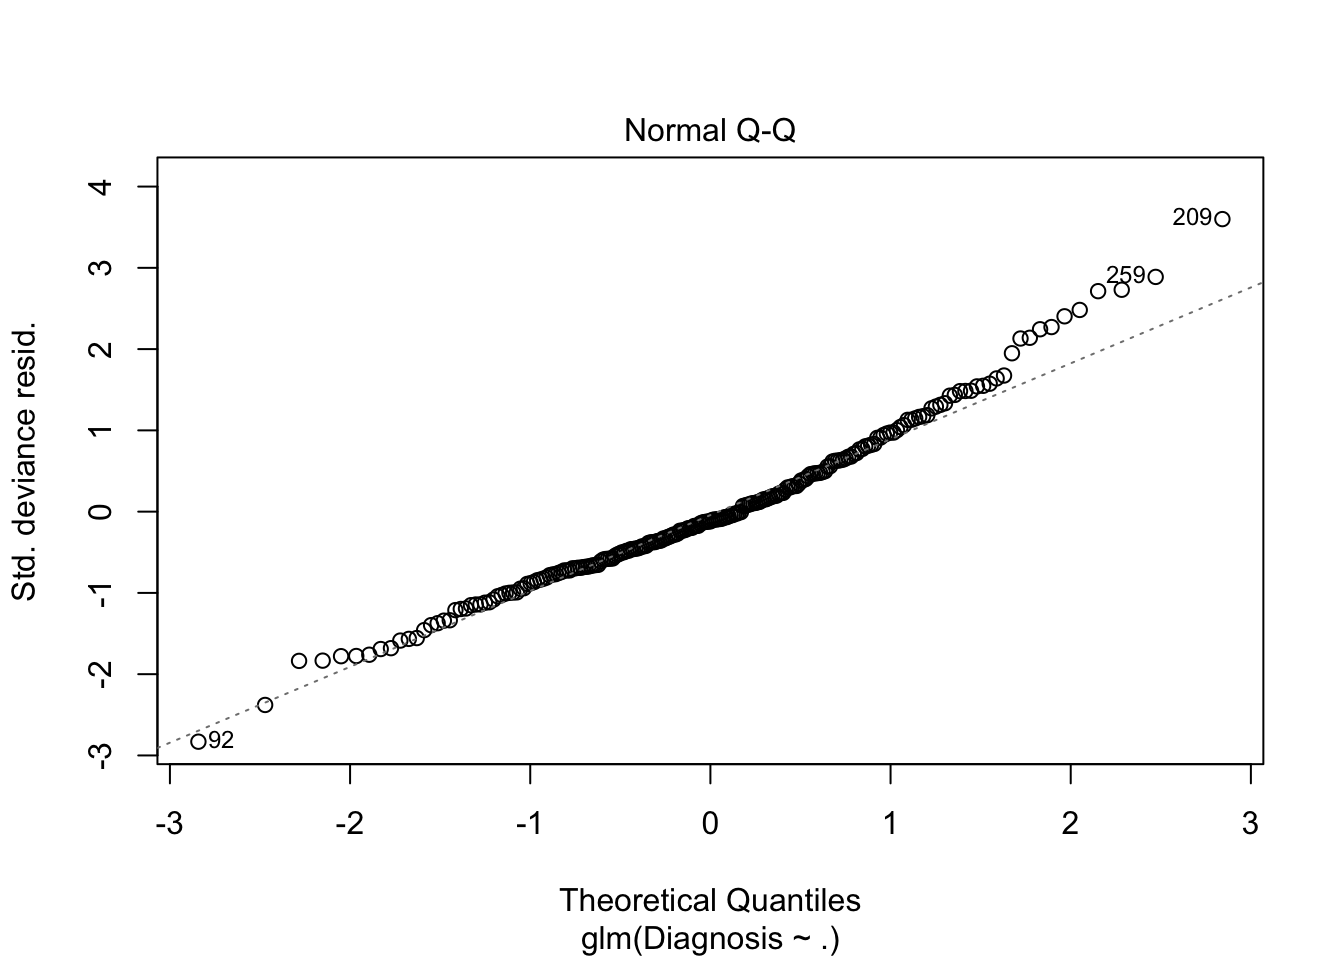
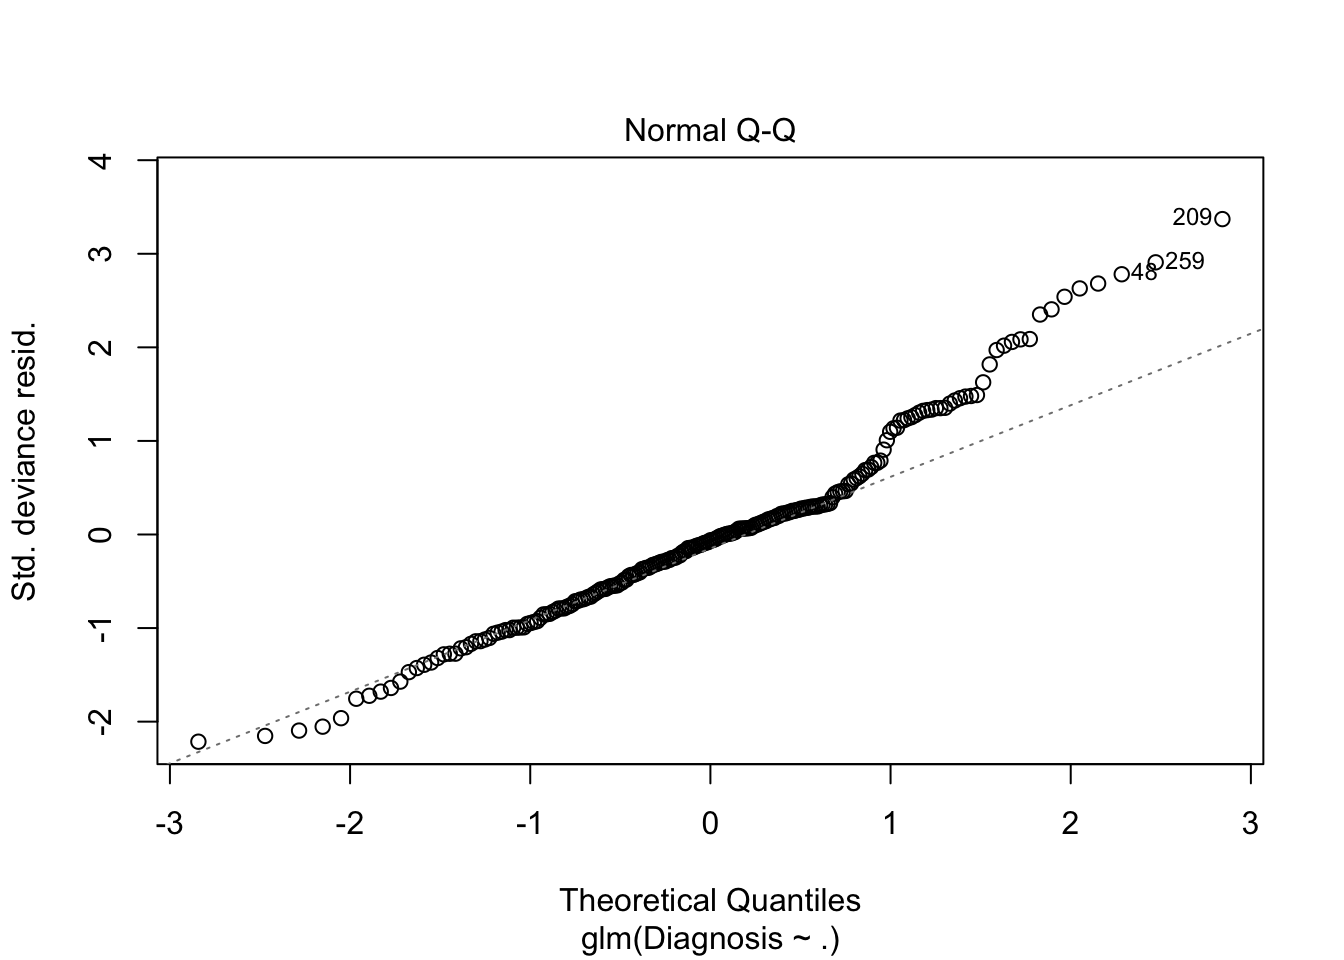
more

diff --git a/content/post/Analysis_heart_conditions.html b/content/post/Analysis_heart_conditions.html
@@ -2,25 +2,25 @@
 title: Why Data Scientists aren't Doctors!
 author: ~
 date: '2017-07-17'
-slug: second-new-post-in-r-markdown
+slug: analysis-of-heart-disease
 categories: []
 tags: []
 ---
 
 
 
-<div id="intro" class="section level1">
-<h1>Intro</h1>
-<p>Technology is advancing at an unbelievable rate, and one of the most exciting, not to mention important, fields that is benefitting from this is the field of Medicine. From CAT scans to cancer cures, science and technology is making the impossible possible with treatments and procedures so advanced and effective, they almost border on the mythical. There are however some drawbacks. One of the most common ones that is joked around the proverbial water-cooler is self diagnosis using technology. In this day and age, if you tell someone that you’ve got a sore throat and feel a little under the weather, you’ll most likely be told “Don’t Google your symptoms, it’ll probably say you’re pregnant!”</p>
-<p>As a prospective data scientist, I find this situation worrying, if not highly offensive… How is it possible that we aren’t able to accurately diagnose ourselves using the same advanced techniques that can effectively model the stock market, crime rates and pokemon cards?! And so, when the opportunity arose to find a data set, build a functional model and then use it to analyse said data set came up, I took it with both hands.</p>
-<p>Full disclosure… I have included the entire code (except for the part about the packages needed), so if you are a BA major, you may want to look away now; if not, you should find it helpful should you want to do something similar.</p>
-</div>
-<div id="code-models-and-some-explanation" class="section level1">
-<h1>Code, models and some explanation</h1>
+<p>Technology is advancing at an unbelievable rate, and one of the most exciting, not to mention important, fields that is benefitting from this is the field of Medicine. From CAT scans to cancer cures, science and technology is making the impossible possible with treatments and procedures so advanced and effective, they almost border on the mythical. There are however some drawbacks. One of the most common ones that is joked around the proverbial water-cooler is self diagnosis using technology. In this day and age, if you tell someone that you’ve got a sore throat and feel a little under the weather, you’ll most likely be told “Don’t Google your symptoms, it’ll probably say you’re pregnant!”<br />
+.</p>
+<p>As a prospective data scientist, I find this situation worrying, if not highly offensive… How is it possible that we aren’t able to accurately diagnose ourselves using the same advanced techniques that can effectively model the stock market, crime rates and pokemon cards?! And so, when the opportunity arose to find a data set, build a functional model and then use it to analyse said data set came up, I took it with both hands.<br />
+.</p>
+<p>Full disclosure… I have included the entire code (except for the part about the packages needed), so if you are a BA major, you may want to look away now; if not, you should find it helpful should you want to do something similar.<br />
+.</p>
 <p>The first thing I had to do was to find some usable data. I settled on a set of just over 300 diagnoses of heart conditions, along with 13 possible factors sucg as age, max heart rate achieved under exercise and an ecg reading. These were factors that I expected to be highly correlated with heart conditions, and so expected a good model. If you are curious, you can find the data <a href="https://archive.ics.uci.edu/ml/machine-learning-databases/heart-disease/processed.cleveland.data">here</a>. The data is all numeric, so the heart diseases are ranked on a scale from 0 to 4, where 0 is completely healthy and 4 is an impending heart-attack.</p>
+<p>.</p>
 <p>If you check out that link, you will see that it just leads to a bunch of numbers on a screen. I therefore had to scrape the website and then format the data (a decent amount of work given my relative inexperience in the field), which was done with the code below. Of course, before doing even that, we have to import the necessary libraries, which are</p>
-<p>library(rvest) library(stringr) library(dplyr) library(rpart) library(caret) library(vcdExtra) library(ipred) library(neuralnet) library(magrittr)</p>
-<pre class="r"><code>#------------------------------Getting and processing our data----------------------------------------------
+<p>.</p>
+<p>library(rvest) library(stringr) library(dplyr) library(rpart) library(caret) library(vcdExtra) library(ipred) library(neuralnet) library(magrittr) .</p>
+<pre class="r"><code>#-----------------------------Getting and processing our data----------------------------------------------
 # Scrapes the data
 raw_data &lt;- read_html(&quot;https://archive.ics.uci.edu/ml/machine-learning-databases/heart-disease/processed.cleveland.data&quot;) %&gt;%  #reads the the data from this page
   html_nodes(&quot;body&quot;) %&gt;%     
@@ -75,10 +75,15 @@ head(data)</code></pre>
 ## 4               0.0  3.0        0 
 ## 5               0.0  3.0        0 
 ## 6               0.0  3.0        0</code></pre>
+<p>.</p>
 <p>As you can see, the data comes out nicely in a data frame. Note that I have taken away all cells that contained “?” (there were a couple) as these would have messed up my models later.</p>
+<p>.</p>
 <p>The first thing I decided to was to model it using a decision tree, as this is a fairly simple model, but one that deals well with a large number of factors. To do this, we make use of the Caret package. This not only makes implementation easy, but also bootstraps the data 25 times and gives us a very nice output off results.</p>
+<p>.</p>
 <p>In order to implement the model, we first divide our data in testing and training parts. I have opted for a 75/25 split, but it doesn’t really matter as long as you have a split and the training set is in the significant majority. We do this so that we can realistically test our model. If you don’t see why this is necessary, think of it like this… imagine trying to teach a child basic maths. You want to teach him addition, so you tell him 2 + 2 = 4, 2 + 3 = 5 and so on. If you then go back and test him by asking him 2 +2, he should (hopefully) say the answer is 4. However, you can’t be sure if he has learnt addition, or if he just knows that 2 + 2 = 4. In order to test him, you ask a sum he hasn’t seen before, like 2 + 4. If he answers 6, you’re doing a good job… anything else, and not so much.</p>
-<p>Back to the code. We then train our model with Diagnosis as a finction of everything (thats what ~ . means) and instruct it to use the rpart method, which is a decision tree. The next two lines just show us the details and decision tree for the model.</p>
+<p>.</p>
+<p>Back to the code. We then train our model with Diagnosis as a function of everything (thats what ~ . means) and instruct it to use the rpart method, which is a decision tree. The next two lines just show us the details and decision tree for the model.</p>
+<p>.</p>
 <pre class="r"><code>#----------------------------------Training our model---------------------------------------------------
 
 # Splitting the data into training and testing sets
@@ -104,12 +109,12 @@ data.rpart</code></pre>
 ## Resampling results across tuning parameters:
 ## 
 ##   cp          Accuracy   Kappa    
-##   0.01904762  0.5502062  0.2735190
-##   0.03809524  0.5580310  0.2738411
-##   0.06666667  0.5521312  0.2176496
+##   0.02912621  0.5410244  0.2403078
+##   0.03398058  0.5367336  0.2217788
+##   0.04854369  0.5349352  0.2182208
 ## 
 ## Accuracy was used to select the optimal model using  the largest value.
-## The final value used for the model was cp = 0.03809524.</code></pre>
+## The final value used for the model was cp = 0.02912621.</code></pre>
 <pre class="r"><code># We can look at the decision tree here
 data.rpart$finalModel</code></pre>
 <pre><code>## n= 223 
@@ -117,55 +122,64 @@ data.rpart$finalModel</code></pre>
 ## node), split, n, loss, yval, (yprob)
 ##       * denotes terminal node
 ## 
-## 1) root 223 105 0  (0.53 0.18 0.12 0.12 0.054)  
-##   2) Thal3.0&gt;=0.5 123  27 0  (0.78 0.14 0.041 0.033 0.0081) *
-##   3) Thal3.0&lt; 0.5 100  77 1  (0.22 0.23 0.22 0.22 0.11)  
-##     6) Chest_Pain4.0&lt; 0.5 32  16 0  (0.5 0.22 0.16 0.062 0.062) *
-##     7) Chest_Pain4.0&gt;=0.5 68  48 3  (0.088 0.24 0.25 0.29 0.13) *</code></pre>
+##  1) root 223 103 0  (0.54 0.2 0.11 0.12 0.04)  
+##    2) Thal3.0&gt;=0.5 121  27 0  (0.78 0.15 0.033 0.033 0.0083) *
+##    3) Thal3.0&lt; 0.5 102  76 0  (0.25 0.25 0.2 0.22 0.078)  
+##      6) Chest_Pain4.0&lt; 0.5 35  17 0  (0.51 0.23 0.086 0.11 0.057) *
+##      7) Chest_Pain4.0&gt;=0.5 67  49 1  (0.12 0.27 0.25 0.27 0.09)  
+##       14) eia1.0&gt;=0.5 44  29 3  (0.068 0.32 0.25 0.34 0.023) *
+##       15) eia1.0&lt; 0.5 23  17 2  (0.22 0.17 0.26 0.13 0.22)  
+##         30) Fluoroscopy_stain0.0&gt;=0.5 7   3 0  (0.57 0.29 0 0 0.14) *
+##         31) Fluoroscopy_stain0.0&lt; 0.5 16  10 2  (0.062 0.12 0.38 0.19 0.25) *</code></pre>
 <pre class="r"><code>#--------------------------Testing the rpart model and looking at output---------------------------------
 
 predict(data.rpart, test)</code></pre>
-<pre><code>##  [1] 0  3  0  0  0  0  0  3  0  0  0  0  3  0  0  3  3  0  0  0  0  3  0 
-## [24] 0  0  0  0  3  0  3  3  0  0  0  0  0  0  0  3  0  0  3  0  3  3  3 
-## [47] 0  0  0  0  0  0  0  0  0  0  0  0  0  0  3  3  0  0  0  0  3  3  0 
-## [70] 0  0  3  3  3 
+<pre><code>##  [1] 0  0  0  3  0  0  3  0  0  2  0  0  0  3  0  0  0  3  0  2  0  3  0 
+## [24] 0  0  0  0  0  3  0  0  0  3  0  0  0  0  3  0  0  3  0  2  0  3  0 
+## [47] 0  3  0  0  0  0  0  0  0  0  0  0  0  0  2  0  0  0  0  0  0  0  3 
+## [70] 0  0  0  2  3 
 ## Levels: 0  1  2  3  4</code></pre>
 <pre class="r"><code>confusionMatrix(predict(data.rpart, test), test$Diagnosis)</code></pre>
 <pre><code>## Confusion Matrix and Statistics
 ## 
 ##           Reference
 ## Prediction 0  1  2  3  4 
-##         0  38  7  2  5  1
+##         0  39  6  5  5  1
 ##         1   0  0  0  0  0
-##         2   0  0  0  0  0
-##         3   4  7  6  4  0
+##         2   0  1  1  2  1
+##         3   1  3  5  2  2
 ##         4   0  0  0  0  0
 ## 
 ## Overall Statistics
 ##                                           
 ##                Accuracy : 0.5676          
 ##                  95% CI : (0.4472, 0.6823)
-##     No Information Rate : 0.5676          
-##     P-Value [Acc &gt; NIR] : 0.5487          
+##     No Information Rate : 0.5405          
+##     P-Value [Acc &gt; NIR] : 0.3644          
 ##                                           
-##                   Kappa : 0.2264          
+##                   Kappa : 0.2272          
 ##  Mcnemar&#39;s Test P-Value : NA              
 ## 
 ## Statistics by Class:
 ## 
 ##                      Class: 0  Class: 1  Class: 2  Class: 3  Class: 4 
-## Sensitivity             0.9048    0.0000    0.0000   0.44444   0.00000
-## Specificity             0.5312    1.0000    1.0000   0.73846   1.00000
-## Pos Pred Value          0.7170       NaN       NaN   0.19048       NaN
-## Neg Pred Value          0.8095    0.8108    0.8919   0.90566   0.98649
-## Prevalence              0.5676    0.1892    0.1081   0.12162   0.01351
-## Detection Rate          0.5135    0.0000    0.0000   0.05405   0.00000
-## Detection Prevalence    0.7162    0.0000    0.0000   0.28378   0.00000
-## Balanced Accuracy       0.7180    0.5000    0.5000   0.59145   0.50000</code></pre>
+## Sensitivity             0.9750    0.0000   0.09091   0.22222   0.00000
+## Specificity             0.5000    1.0000   0.93651   0.83077   1.00000
+## Pos Pred Value          0.6964       NaN   0.20000   0.15385       NaN
+## Neg Pred Value          0.9444    0.8649   0.85507   0.88525   0.94595
+## Prevalence              0.5405    0.1351   0.14865   0.12162   0.05405
+## Detection Rate          0.5270    0.0000   0.01351   0.02703   0.00000
+## Detection Prevalence    0.7568    0.0000   0.06757   0.17568   0.00000
+## Balanced Accuracy       0.7375    0.5000   0.51371   0.52650   0.50000</code></pre>
+<p>.</p>
 <p>Looking at the output of the code, we see that we have 223 samples for the training set, with 13 predictors and 5 classes. This all sounds good. One interesting aspect of the rpart model is that it is able to give us different complexity parameters and their subsequent accuracy is used in the model. The complexity parameter is effectively a measurement of how deep your decision tree is. If this doesn’t make sense, I suggest doing some background reading on it. We see which complexity parameter gives us the highest level of accuracy, which can be seen to be worryingly low here. Not to worry however, as we haven’t tested the model yet. We can also have a look at the decision tree if we wish to.</p>
+<p>.</p>
 <p>We then moving on to testing our model. We use the predict command, which predicts the Diagnosis of the 75 remaining data points using the 13 factors. We can see the output. This is nice to see, but really that useful. What is useful however, is the confusion matrix. This shows us how many false/true positive/negatives were produced by the model on the testing data set, as well as the overall statistics. We can see the sensitivity and specificity for each result, as well as the overall accuracy. Our accuracy is surprisingly low given that we expected the factors to be highly correlated to the output.</p>
+<p>.</p>
 <p>A low accuracy value is not the end of the world, for several reasons. The first of these is we have chosen an inappropriate model for the data set. Following this thinking, I tried a different tact and so I ran a logistical regession model. This has two benefits. The first is that it is another model and so we may find it is accurate. However, it is also a rather simple model and as the decision tree failed, I was not hopeful. The main reason I ran it is that this model is able to tell you which factors are strongly correlated, and which are not, to the output. We want to know this because sometimes having extraneous factors in the model makes it less accurate, and so if we are able to cut some unnecessary ones, it should help.</p>
+<p>.</p>
 <p>Once again, we divide the data into testing and training sets. A subtlety here is that the logistic model strictly takes numeric arguments, so we have to make sure the dataframe is a numeric one. Onc again we train the model as Diagnosis as a function of everything with the training data set and then we have a look.</p>
+<p>.</p>
 <pre class="r"><code>#-----------------------------Using a Logistics model--------------------------------------------------
 
 #We first turn the data into a numeric dataframe and get new training and testing sets
@@ -182,37 +196,89 @@ summary(logistic)</code></pre>
 ## glm(formula = Diagnosis ~ ., data = train)
 ## 
 ## Deviance Residuals: 
-##     Min       1Q   Median       3Q      Max  
-## -2.3423  -0.5543  -0.0974   0.4858   2.8671  
+##      Min        1Q    Median        3Q       Max  
+## -1.81736  -0.54481  -0.05036   0.29706   2.64266  
 ## 
 ## Coefficients:
 ##                             Estimate Std. Error t value Pr(&gt;|t|)    
-## (Intercept)               -2.011e+00  4.907e-01  -4.099 5.94e-05 ***
-## Age                       -5.789e-05  7.465e-03  -0.008  0.99382    
-## Sex                        1.396e-01  1.342e-01   1.040  0.29954    
-## Chest_Pain                 2.123e-01  6.840e-02   3.104  0.00217 ** 
-## Blood_Pressure             5.633e-03  5.539e-03   1.017  0.31031    
-## Cholestoral               -3.079e-04  1.550e-03  -0.199  0.84273    
-## Blood_Sugar               -1.136e-01  1.655e-01  -0.687  0.49298    
-## ecg                        1.443e-01  6.037e-02   2.390  0.01773 *  
-## Max_Heart_Rate            -3.133e-03  3.179e-03  -0.986  0.32548    
-## eia                        3.768e-01  1.448e-01   2.603  0.00991 ** 
-## Exercise_induced_feelings  2.039e-02  7.414e-03   2.750  0.00648 ** 
-## Slope_of_ST                1.079e-01  1.158e-01   0.932  0.35236    
-## Fluoroscopy_stain          4.516e-01  6.807e-02   6.635 2.73e-10 ***
-## Thal                       3.021e-01  7.178e-02   4.209 3.81e-05 ***
+## (Intercept)               -1.9616350  0.4756003  -4.125 5.36e-05 ***
+## Age                       -0.0076087  0.0074368  -1.023 0.307435    
+## Sex                        0.2131054  0.1352920   1.575 0.116734    
+## Chest_Pain                 0.1900993  0.0658087   2.889 0.004276 ** 
+## Blood_Pressure             0.0041637  0.0055882   0.745 0.457052    
+## Cholestoral                0.0001467  0.0015707   0.093 0.925674    
+## Blood_Sugar               -0.0728219  0.1850847  -0.393 0.694387    
+## ecg                        0.0619969  0.0592302   1.047 0.296442    
+## Max_Heart_Rate            -0.0023516  0.0032383  -0.726 0.468535    
+## eia                        0.2266377  0.1433026   1.582 0.115269    
+## Exercise_induced_feelings  0.0222895  0.0071900   3.100 0.002201 ** 
+## Slope_of_ST                0.2772669  0.1155922   2.399 0.017334 *  
+## Fluoroscopy_stain          0.5336732  0.0719103   7.421 2.88e-12 ***
+## Thal                       0.2506827  0.0717593   3.493 0.000582 ***
 ## ---
 ## Signif. codes:  0 &#39;***&#39; 0.001 &#39;**&#39; 0.01 &#39;*&#39; 0.05 &#39;.&#39; 0.1 &#39; &#39; 1
 ## 
-## (Dispersion parameter for gaussian family taken to be 0.7212286)
+## (Dispersion parameter for gaussian family taken to be 0.7033118)
 ## 
-##     Null deviance: 365.00  on 222  degrees of freedom
-## Residual deviance: 150.74  on 209  degrees of freedom
-## AIC: 575.51
+##     Null deviance: 350.64  on 222  degrees of freedom
+## Residual deviance: 146.99  on 209  degrees of freedom
+## AIC: 569.9
 ## 
 ## Number of Fisher Scoring iterations: 2</code></pre>
 <pre class="r"><code>plot(logistic)</code></pre>
 <p><img src="/post/Analysis_heart_conditions_files/figure-html/unnamed-chunk-4-1.png" width="672" /><img src="/post/Analysis_heart_conditions_files/figure-html/unnamed-chunk-4-2.png" width="672" /><img src="/post/Analysis_heart_conditions_files/figure-html/unnamed-chunk-4-3.png" width="672" /><img src="/post/Analysis_heart_conditions_files/figure-html/unnamed-chunk-4-4.png" width="672" /></p>
-<p>The first thing that we see when we examine the sumamry is that not all of our factors are important. We can see it in two ways. The technical way is to see which factor has a small (on the order of 10^(-3)) p factor. The slightly easier way is to look at the stars next to the factors… *** means important, means not. I was happy to see that 8 of our factors seem to have little or no bearing on the model, and so we can take them out.</p>
-<p>I was less happy with the plots. As you can see, the model struggled to successfully model the data points. I was not discouraged however, as I had one more trick up my sleeve… the Neural Network</p>
-</div>
+<p>.</p>
+<p>The first thing that we see when we examine the summary is that not all of our factors are important. We can see it in two ways. The technical way is to see which factor has a small (on the order of 10^(-3)) p factor. The slightly easier way is to look at the stars next to the factors… *** means important, means not. I was happy to see that 8 of our factors seem to have little or no bearing on the model, and so we can take them out.</p>
+<p>.</p>
+<p>I was less happy with the plots. As you can see, the model struggled to successfully model the data points. I was not discouraged however, as I had one more trick up my sleeve… the Neural Network. The Neural Network is a more advanced model that is based upon the human brain. It uses things artificial neurons that act like real neurons to create models that are exceptionally good at tasks that other models are traditionally not good at, like identifying hand-writing. I won’t go into how the model works, but if you are interested, you can read up on it <a href="https://en.wikipedia.org/wiki/Artificial_neural_network">here</a>.</p>
+<p>.</p>
+<p>We begin the model by taking the data that we discovered we didn’t need using the GLM model. We then have to normalize the data. This is a particular quirk of the neural network, as if it is not done, it may lead to meaninless or incorrect results. There are different methods of normalization (z-normalization, min-max etc. ), though I went with the use the min-max method and a scale in the interval [0, 1]. We once again split our data and rthen train the model. I have included an image of what the Neural Network looks like if you are curious. As before, we then test our model against our testing data and then have a look at the results.</p>
+<p>.</p>
+<pre class="r"><code>#-------------------------Using a neural network---------------------------------------------------------
+
+#We first take away all superfluous data points to simplify our model
+data$Age = NULL
+data$Sex = NULL
+data$Blood_Pressure = NULL
+data$Cholestoral = NULL
+data$ecg = NULL
+data$Blood_Sugar = NULL
+data$Max_Heart_Rate = NULL
+data$eia = NULL
+
+
+# Normalize data. 
+maxs &lt;- apply(data, 2, max)
+mins &lt;- apply(data, 2, min)
+
+scaled &lt;- as.data.frame(scale(data, center = TRUE, scale = maxs - mins))
+
+train.scaled &lt;- scaled[index,]
+test.scaled &lt;- scaled[-index,]
+
+# We now train the model
+names &lt;- names(train.scaled)
+names.all &lt;- as.formula(paste(&quot;Diagnosis ~&quot;, paste(names[!names %in% &quot;Diagnosis&quot;], collapse = &quot; + &quot;)))
+nn &lt;- neuralnet(names.all,data=train.scaled,hidden=c(5,3),linear.output=T)
+plot(nn)</code></pre>
+<p>!(neural_networks.png)</p>
+<pre class="r"><code># We compute our test data with the model  
+pr.nn &lt;- compute(nn,test.scaled[ ,1:5])      
+
+
+# We undo the normalization by scaling it back up and then calculate 
+# the Means Squared error
+pr.nn_ &lt;- pr.nn$net.result*(max(data$Diagnosis)-min(data$Diagnosis))+min(data$Diagnosis)
+test.r &lt;- (test.scaled$Diagnosis)*(max(data$Diagnosis)-min(data$Diagnosis))+min(data$Diagnosis)
+
+Results_of_Neural_Network &lt;- pr.nn_
+MSE.nn &lt;- sum((test.r - pr.nn_)^2)/nrow(test.scaled)
+print(MSE.nn)</code></pre>
+<pre><code>## [1] 1.241954591</code></pre>
+<pre class="r"><code># We now plot our results
+par(mfrow=c(1,2))
+plot(test$Diagnosis,Results_of_Neural_Network, col=&#39;blue&#39;,main=&#39;Real vs predicted NN&#39;,pch=18,cex=0.7)
+abline(-1,1,lwd=2)
+legend(&#39;bottomright&#39;,legend=&#39;Neural Network&#39;,pch=18,col=&#39;blue&#39;, bty=&#39;n&#39;)</code></pre>
+<p><img src="/post/Analysis_heart_conditions_files/figure-html/unnamed-chunk-6-1.png" width="672" /></p>
+<p>.</p>
